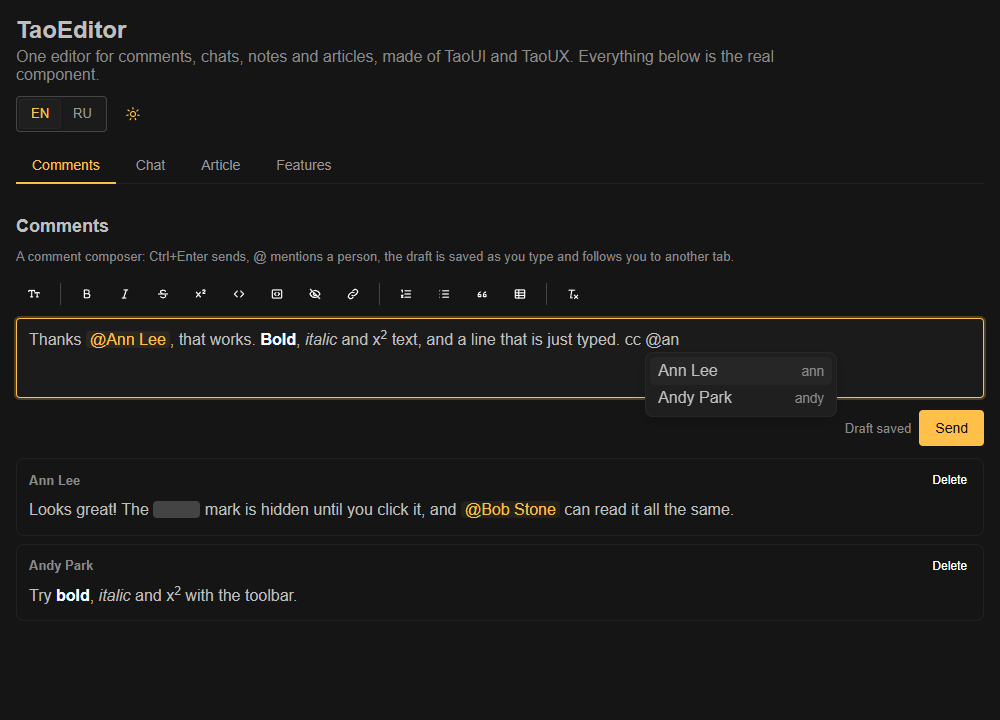
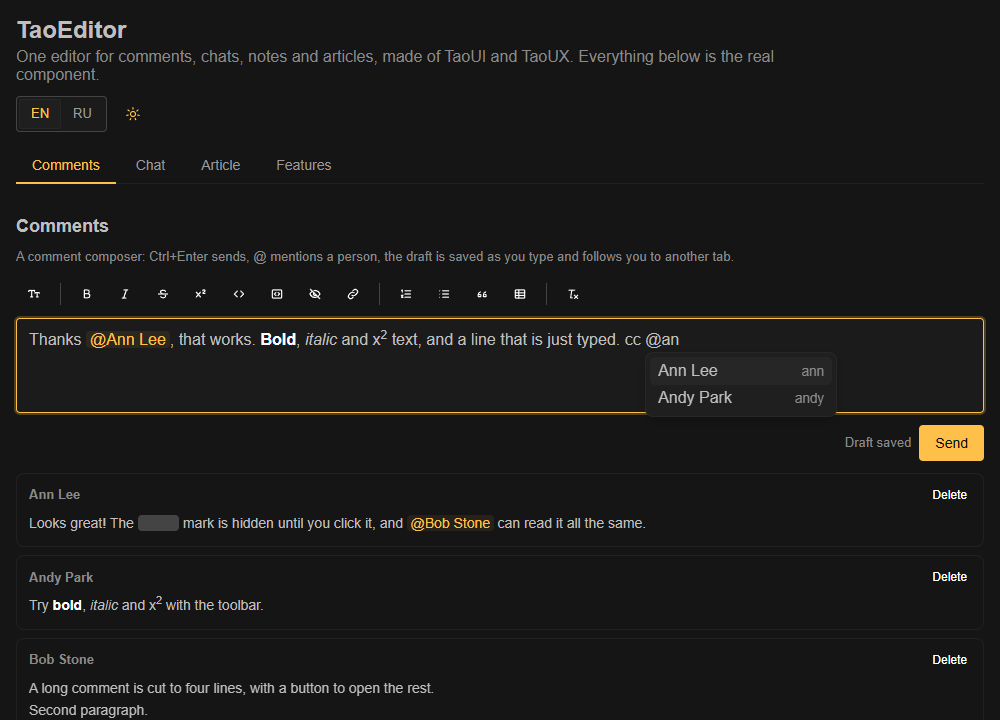
Heights in lines: minRows and maxRows for the editor, maxRows with Show more for the viewer

diff --git a/src/vue/TaoEditorView.ts b/src/vue/TaoEditorView.ts
@@ -9,7 +9,7 @@
  * грузится, поэтому страница, которая только показывает текст, ничего не платит за ProseMirror. Импорта TaoUI нет:
  * под TaoUI добавьте классу `tao-prose` (`<TaoEditorView class="tao-prose">`).
  */
-import { computed, defineComponent, getCurrentInstance, h, shallowRef, type PropType, type VNode } from 'vue';
+import { computed, defineComponent, getCurrentInstance, h, onMounted, onUpdated, ref, shallowRef, type PropType, type VNode } from 'vue';
 import { VOID_TAGS, resolveProfile, toRenderTree, type Doc, type Profile, type ProfileName, type RenderNode } from '../core';
 
 export const TaoEditorView = defineComponent({
@@ -26,6 +26,17 @@ export const TaoEditorView = defineComponent({
          * остальных нет. Документ один и тот же.
          */
         spaced: { type: Boolean, default: undefined },
+        /**
+         * A long text is shown as this many lines with a button to open the rest (a comment in a feed). Counted with the line height of
+         * the text (the `lh` unit: Chrome 109, Firefox 120, Safari 16.4). The button is there only when the text is longer; on a server the
+         * text is shown in full, nothing is cut without a script to open it.
+         * Длинный текст показывается столькими строками с кнопкой, которая открывает остальное (комментарий в ленте). Считается по высоте
+         * строки текста. Кнопка есть только если текст длиннее; на сервере текст виден целиком: без скрипта, который его откроет, ничего не обрезается.
+         */
+        maxRows: { type: Number, default: undefined },
+        /** Texts of the buttons (the viewer has no TaoUI: plain buttons). */
+        moreLabel: { type: String, default: 'Show more' },
+        lessLabel: { type: String, default: 'Show less' },
     },
     emits: {
         /** A mention was clicked (or Enter / Space on it): its id. Mentions are plain text unless something listens. */
@@ -79,6 +90,41 @@ export const TaoEditorView = defineComponent({
         };
 
         const compact = (): boolean => !(props.spaced ?? resolveProfile(props.profile).spaced ?? false);
-        return () => h('div', { class: compact() ? 'tao-content tao-compact' : 'tao-content' }, tree.value.map(node));
+
+        // `maxRows`: the text is cut to that many lines; after drawing we see whether it is longer, and only then there is a button
+        const body = ref<HTMLElement | null>(null);
+        const open = ref(false);
+        const ready = ref(false); // after mounting: on a server (and before hydration) nothing is cut, there is no script to open it
+        const longer = ref(false);
+        const measure = (): void => {
+            const el = body.value;
+            if (!el || props.maxRows === undefined) return;
+            // opened: the button stays (it closes again); cut: it is there if something is hidden
+            if (!open.value) longer.value = el.scrollHeight > el.clientHeight + 1;
+        };
+        onMounted(() => {
+            ready.value = true;
+            measure();
+        });
+        onUpdated(measure);
+
+        return () => {
+            const rows = props.maxRows !== undefined && Number.isFinite(props.maxRows) && props.maxRows >= 1 ? Math.floor(props.maxRows) : undefined;
+            const content = (extra?: Record<string, unknown>): VNode =>
+                h('div', { class: compact() ? 'tao-content tao-compact' : 'tao-content', ...extra }, tree.value.map(node));
+            if (rows === undefined) return content();
+            // the class and the attributes of the host go to the outer box, the text and the button are inside it
+            const cut = ready.value && !open.value;
+            return h('div', { class: 'tao-content-clamp' }, [
+                content({
+                    ref: body,
+                    class: [compact() ? 'tao-content tao-compact' : 'tao-content', { 'tao-content--clamped': cut, 'tao-content--faded': cut && longer.value }],
+                    style: cut ? { '--te-rows': String(rows) } : undefined,
+                }),
+                longer.value
+                    ? h('button', { type: 'button', class: 'tao-content-more', 'aria-expanded': String(open.value), onClick: () => (open.value = !open.value) }, open.value ? props.lessLabel : props.moreLabel)
+                    : null,
+            ]);
+        };
     },
 });

diff --git a/tests/vue/viewerrows.test.ts b/tests/vue/viewerrows.test.ts
@@ -1,0 +1,85 @@
+// @vitest-environment jsdom
+import { createApp, h, nextTick, type App } from 'vue';
+import { renderToString } from 'vue/server-renderer';
+import { afterEach, describe, expect, it } from 'vitest';
+import type { Doc } from '../../src/core';
+import { TaoEditorView } from '../../src/vue';
+
+const apps: App[] = [];
+afterEach(() => {
+    while (apps.length) apps.pop()!.unmount();
+    document.body.replaceChildren();
+});
+
+const DOC: Doc = { v: 1, content: [{ type: 'paragraph', content: [{ type: 'text', text: 'a long comment' }] }] };
+
+function mount(props: Record<string, unknown>): HTMLElement {
+    const host = document.createElement('div');
+    document.body.append(host);
+    const app = createApp({ render: () => h(TaoEditorView, { doc: DOC, ...props }) });
+    app.mount(host);
+    apps.push(app);
+    return host;
+}
+
+/** jsdom has no layout: say that the text is taller than the box. */
+function layout(scrollHeight: number, clientHeight: number): void {
+    Object.defineProperty(HTMLElement.prototype, 'scrollHeight', { configurable: true, get: () => scrollHeight });
+    Object.defineProperty(HTMLElement.prototype, 'clientHeight', { configurable: true, get: () => clientHeight });
+}
+afterEach(() => {
+    delete (HTMLElement.prototype as unknown as Record<string, unknown>).scrollHeight;
+    delete (HTMLElement.prototype as unknown as Record<string, unknown>).clientHeight;
+});
+
+describe('the viewer with maxRows', () => {
+    it('without it nothing changes: the root is the text itself', () => {
+        const host = mount({});
+        expect(host.firstElementChild!.classList.contains('tao-content')).toBe(true);
+        expect(host.querySelector('.tao-content-clamp')).toBeNull();
+    });
+
+    it('a short text is shown as it is: cut to the rows, no button', async () => {
+        layout(40, 40);
+        const host = mount({ maxRows: 3 });
+        await nextTick();
+        expect(host.querySelector('.tao-content-clamp > .tao-content--clamped')!.getAttribute('style')).toContain('--te-rows: 3');
+        expect(host.querySelector('.tao-content-more')).toBeNull();
+        expect(host.querySelector('.tao-content--faded')).toBeNull();
+    });
+
+    it('a long text is faded and has a button that opens it and closes it again', async () => {
+        layout(200, 60);
+        const host = mount({ maxRows: 3 });
+        await nextTick();
+        await nextTick();
+        const button = host.querySelector<HTMLButtonElement>('.tao-content-more')!;
+        expect(button.textContent).toBe('Show more');
+        expect(button.getAttribute('aria-expanded')).toBe('false');
+        expect(host.querySelector('.tao-content--faded')).not.toBeNull();
+        button.click();
+        await nextTick();
+        expect(host.querySelector('.tao-content--clamped')).toBeNull();
+        expect(host.querySelector('.tao-content-more')!.textContent).toBe('Show less');
+        host.querySelector<HTMLButtonElement>('.tao-content-more')!.click();
+        await nextTick();
+        expect(host.querySelector('.tao-content--clamped')).not.toBeNull();
+    });
+
+    it('the labels are the app\'s own, and nonsense for maxRows shows the text in full', async () => {
+        layout(200, 60);
+        const host = mount({ maxRows: 3, moreLabel: 'Ещё', lessLabel: 'Свернуть' });
+        await nextTick();
+        await nextTick();
+        expect(host.querySelector('.tao-content-more')!.textContent).toBe('Ещё');
+        const full = mount({ maxRows: 0 });
+        expect(full.querySelector('.tao-content-clamp')).toBeNull();
+    });
+
+    it('on a server the text is whole: no cut without a script to open it, no button', async () => {
+        const html = await renderToString(h(TaoEditorView, { doc: DOC, maxRows: 3 }));
+        expect(html).toContain('a long comment');
+        expect(html).not.toContain('tao-content-more');
+        expect(html).not.toContain('tao-content--clamped');
+    });
+});

diff --git a/src/vue/taoui/TaoEditor.ts b/src/vue/taoui/TaoEditor.ts
@@ -209,6 +209,19 @@ const TABLE_MENU: readonly (readonly [TableCommand, keyof TaoEditorLabels, strin
     ['deleteTable', 'tableDelete', 'te-trash'],
 ];
 
+/** Rows of text as a height: that many lines, plus the padding (1em) and the border (2px) of the field. Nonsense is ignored. */
+const rowsHeight = (rows: number): string | undefined => (Number.isFinite(rows) && rows >= 1 ? `calc(${Math.floor(rows)} * 1lh + 1em + 2px)` : undefined);
+
+function sizeStyle(minRows: number | undefined, maxRows: number | undefined, maxHeight: number | string | undefined): Record<string, string> | undefined {
+    const style: Record<string, string> = {};
+    const min = minRows === undefined ? undefined : rowsHeight(minRows);
+    // a custom property holds any text: a number is px, a string is a CSS length (the app's own, not checked)
+    const max = maxHeight !== undefined ? (typeof maxHeight === 'number' ? `${maxHeight}px` : maxHeight) : maxRows === undefined ? undefined : rowsHeight(maxRows);
+    if (min) style['--te-min-height'] = min;
+    if (max) style['--te-max-height'] = max;
+    return Object.keys(style).length > 0 ? style : undefined;
+}
+
 const mac = typeof navigator !== 'undefined' && /Mac|iPhone|iPad/.test(navigator.platform);
 const key = (letter: string, shift = false, alt = false): string =>
     mac ? `${shift ? '⇧' : ''}${alt ? '⌥' : ''}⌘${letter}` : `${'Ctrl+'}${alt ? 'Alt+' : ''}${shift ? 'Shift+' : ''}${letter}`;
@@ -257,6 +270,14 @@ export const TaoEditor = defineComponent({
          * растёт вместе с текстом, а прокручивается страница. То же, что `--te-max-height` на компоненте.
          */
         maxHeight: { type: [Number, String] as PropType<number | string>, default: undefined },
+        /**
+         * The height in lines of text instead of pixels: a chat starts at 1 line and grows to 8, a comment at 3 to 12. Counted with the line
+         * height of the text (the `lh` unit: Chrome 109, Firefox 120, Safari 16.4); `maxHeight` wins over `maxRows`.
+         * Высота в строках текста, а не в пикселях: чат начинается с 1 строки и растёт до 8, комментарий с 3 до 12. Считается по высоте
+         * строки текста (единица `lh`: Chrome 109, Firefox 120, Safari 16.4); `maxHeight` главнее `maxRows`.
+         */
+        minRows: { type: Number, default: undefined },
+        maxRows: { type: Number, default: undefined },
         /** The toolbar floats over the selection instead of standing above the field. / Панель висит над выделением. */
         floating: { type: Boolean, default: false },
         /**
@@ -1175,7 +1196,7 @@ export const TaoEditor = defineComponent({
                     ref: root,
                     class: ['tao-editor-root', { 'tao-editor-root--disabled': props.disabled, 'tao-editor-root--sticky': props.sticky && !props.floating }],
                     // a number is px; the string is a CSS length (not checked: it only goes into a custom property)
-                    style: props.maxHeight === undefined ? undefined : { '--te-max-height': typeof props.maxHeight === 'number' ? `${props.maxHeight}px` : props.maxHeight },
+                    style: sizeStyle(props.minRows, props.maxRows, props.maxHeight),
                     onFocusin: () => (focused.value = true),
                     onFocusout: (event: FocusEvent) => {
                         if (!root.value?.contains(event.relatedTarget as Node | null)) {

diff --git a/demo/src/sections/CommentsDemo.vue b/demo/src/sections/CommentsDemo.vue
@@ -42,7 +42,8 @@ function mentioned(id: string): void {
             v-model="draft.doc.value"
             profile="comment"
             submit="mod-enter"
-            :max-height="260"
+            :min-rows="3"
+            :max-rows="10"
             :mentions="searchPeople"
             :labels="labels"
             :placeholder="t('comments.placeholder')"
@@ -64,7 +65,7 @@ function mentioned(id: string): void {
                     <strong>{{ comment.author }}</strong>
                     <TaoButton variant="text" tone="neutral" size="small" @click="remove(comment.id)">{{ t('comments.delete') }}</TaoButton>
                 </div>
-                <TaoEditorView :doc="comment.doc" profile="comment" class="tao-prose" @mention="mentioned" />
+                <TaoEditorView :doc="comment.doc" profile="comment" class="tao-prose" :max-rows="4" :more-label="t('common.showMore')" :less-label="t('common.showLess')" @mention="mentioned" />
             </article>
         </div>
     </section>

diff --git a/tests/vue/layout.test.ts b/tests/vue/layout.test.ts
@@ -39,3 +39,17 @@ describe('a long text: maxHeight and sticky', () => {
         expect(plain.classList.contains('tao-editor-root--sticky')).toBe(false);
     });
 });
+
+describe('the height in rows', () => {
+    it('minRows and maxRows become heights counted in lines; maxHeight wins; nonsense is ignored', async () => {
+        const rows = mount({ minRows: 3, maxRows: 8 });
+        const both = mount({ maxRows: 8, maxHeight: 100 });
+        const bad = mount({ minRows: 0, maxRows: Number.NaN });
+        await nextTick();
+        expect(rows.style.getPropertyValue('--te-min-height')).toBe('calc(3 * 1lh + 1em + 2px)');
+        expect(rows.style.getPropertyValue('--te-max-height')).toBe('calc(8 * 1lh + 1em + 2px)');
+        expect(both.style.getPropertyValue('--te-max-height')).toBe('100px');
+        expect(bad.style.getPropertyValue('--te-min-height')).toBe('');
+        expect(bad.style.getPropertyValue('--te-max-height')).toBe('');
+    });
+});

diff --git a/demo/src/samples.ts b/demo/src/samples.ts
@@ -15,6 +15,7 @@ const doc = (...content: DocNode[]): Doc => ({ v: 1, content });
 export const SEED_COMMENTS: { id: number; author: string; doc: Doc }[] = [
     { id: 1, author: 'Ann Lee', doc: doc(p(t('Looks great! The '), t('spoiler', { type: 'spoiler' }), t(' mark is hidden until you click it, and '), mention('u3', 'Bob Stone'), t(' can read it all the same.'))) },
     { id: 2, author: 'Andy Park', doc: doc(p(t('Try '), t('bold', bold), t(', '), t('italic', { type: 'italic' }), t(' and x'), t('2', { type: 'superscript' }), t(' with the toolbar.'))) },
+    { id: 3, author: 'Bob Stone', doc: doc(p(t('A long comment is cut to four lines, with a button to open the rest.')), p(t('Second paragraph.')), p(t('Third paragraph.')), p(t('Fourth paragraph.')), p(t('Fifth: this one is behind the button.')), p(t('Sixth: and so is this.'))) },
 ];
 
 /** A page of an article: headings, a list, a quote, code, an indent, alignment, sizes, colours. */

diff --git a/src/styles/content.css b/src/styles/content.css
@@ -229,3 +229,26 @@
     font-size: 0.75em;
     line-height: 0;
 }
+
+/* The viewer with `maxRows`: cut to --te-rows lines, faded at the bottom when there is more, and a plain button to open the rest. */
+.tao-content--clamped {
+    max-height: calc(var(--te-rows) * 1lh);
+    overflow: hidden;
+}
+.tao-content--faded {
+    -webkit-mask-image: linear-gradient(to bottom, #000 calc(100% - 1.5lh), transparent);
+    mask-image: linear-gradient(to bottom, #000 calc(100% - 1.5lh), transparent);
+}
+.tao-content-more {
+    margin-top: 0.25em;
+    padding: 0;
+    font: inherit;
+    font-size: 0.9em;
+    color: var(--te-link, light-dark(#2f6df6, #7aa5ff));
+    background: none;
+    border: 0;
+    cursor: pointer;
+}
+.tao-content-more:hover {
+    text-decoration: underline;
+}

diff --git a/demo/src/sections/ChatDemo.vue b/demo/src/sections/ChatDemo.vue
@@ -72,6 +72,8 @@ function mentioned(id: string): void {
             v-model="draft"
             profile="chat"
             submit="enter"
+            :min-rows="1"
+            :max-rows="6"
             :mentions="searchPeople"
             :labels="labels"
             :placeholder="t('chat.placeholder')"

diff --git a/demo/src/locales/ru.ts b/demo/src/locales/ru.ts
@@ -10,6 +10,8 @@ export const ru: Dictionary = {
     common: {
         you: 'Вы',
         justNow: 'только что',
+        showMore: 'Показать полностью',
+        showLess: 'Свернуть',
         mention: 'Нажато упоминание, id {0}',
     },
     comments: {

diff --git a/demo/src/locales/en.ts b/demo/src/locales/en.ts
@@ -8,6 +8,8 @@ export const en = {
     common: {
         you: 'You',
         justNow: 'just now',
+        showMore: 'Show more',
+        showLess: 'Show less',
         mention: 'A mention was clicked, id {0}',
     },
     comments: {

diff --git a/CHANGELOG.md b/CHANGELOG.md
@@ -6,7 +6,7 @@
 - **The ready profiles are leaner**: `comment` has the bar of Reddit (bold, italic, strikethrough, superscript, size, link, lists, spoiler, quote, code, code block, table) and no text and background colour, underline, subscript, alignment or indents (lists are nested with Tab); `chat` also has no superscript; `article` keeps everything. The code block button stands next to the inline code one. A new feature `history` (with `indent` and `align`) is the Undo and Redo buttons of the toolbar: only `article` has them by default (Ctrl+Z and Ctrl+Y always work). A project can still take marks away or define its own profile (`defineProfile` with the marks it wants).
 - **One row toolbar.** The toolbar uses TaoUI 5.31 `overflow`: it stays one row, and the groups that do not fit go under a "More" button (the history group stays). The popups of a button in that panel open below the panel. New label `more`. `@1337exp/taoui` is now `^5.31.0` (peer and dev); `floating` toolbars are not changed.
 - **Code block button.** The code block (a block of plain monospaced text, apart from the inline `code` mark) gets a toolbar toggle: the selected lines become one block (text only: marks go, a mention becomes its `@name`) and back to a paragraph. Enter or Shift+Enter on an empty last line leaves the block, so one at the end of the document has a way out. `createEditor` gains `toggleCodeBlock`; new label `codeBlock`. A table cell does not take one.
-- **Long texts.** Two settings for the app that embeds the editor: `sticky` keeps the toolbar at the top of the screen while the page scrolls past a long text (`--te-sticky-top` for a page with its own fixed header; not for `floating`), and `maxHeight` (or `--te-max-height`) makes the field grow up to that height and then scroll inside. Which one to use is the app's decision: a sticky toolbar for an article, a maximum height for a comment or a chat. No own context menu: the browser's keeps the spell check.
+- **Long texts.** Two settings for the app that embeds the editor: `sticky` keeps the toolbar at the top of the screen while the page scrolls past a long text (`--te-sticky-top` for a page with its own fixed header; not for `floating`), and `maxHeight` (or `--te-max-height`) makes the field grow up to that height and then scroll inside. **Heights in lines**: `minRows` and `maxRows` on the editor (a chat from 1 line to 6, a comment from 3 to 10), counted with the line height of the text (the `lh` unit: Chrome 109, Firefox 120, Safari 16.4; `maxHeight` wins over `maxRows`); and `maxRows` on `TaoEditorView` cuts a long text to that many lines, fades the last one and adds a button to open the rest (`moreLabel`, `lessLabel`; on a server and before hydration the text is whole). `--te-max-height` is a CSS property that inherits, so one rule in the app's stylesheet sets it for a whole area. Which one to use is the app's decision: a sticky toolbar for an article, a maximum height for a comment or a chat. No own context menu: the browser's keeps the spell check.
 - **Tables.** New nodes `table`, `tableRow`, `tableCell` and `tableHeader` in the document (`comment` and `article` have them, `chat` does not; `withoutFeatures(profile, { nodes: ['table'] })` takes the table and its parts away together). A table is a plain rectangle: the normalizer fills a short row with empty cells, cuts it to 50 rows by 20 columns, and keeps tables out of cells, quotes and lists; merged cells and column widths are not in the model. A profile without tables shows the cells as paragraphs.
 - **In the editor** (on `prosemirror-tables` 1.8.5, exact): a table button with a size picker (8 by 6, arrows walk it), and, when the caret is in a table, a menu for rows, columns, the header row and deleting the table. A small button on the cell with the caret opens the same menu next to it (a long table needs no trip to the toolbar). Tab and Shift+Tab walk the cells and fall through at the ends; the caret can stand before a table or a code block at the start of the document and after one at the end (a gap cursor, on `prosemirror-gapcursor` 1.4.1, exact): arrows get there, Enter makes a line, typing makes a paragraph.
 - **Paste without formatting**: Ctrl+Shift+V pastes only the text of the clipboard (the engine does this itself; a test now guards it). No toolbar button, on purpose: Gmail and Docs have none, and a phone has no such keys.

diff --git a/README.ru.md b/README.ru.md
@@ -64,7 +64,7 @@ const profile = withoutFeatures('comment', { marks: ['bold'], features: ['align'
 - **Ничего не превращается за спиной.** Набранное и вставленное остаётся тем, чем было: текст, похожий на Markdown, остаётся текстом. Форматирование есть только если его применили явно или оно пришло настоящим форматированием во вставленном HTML (куски из Google Docs, Word и Gmail читаются, их чёрные чернила и белая бумага нет).
 - **Безопасная вставка и безопасный вывод**: Ctrl+Shift+V вставляет только текст (как в Gmail и Docs; кнопки нет намеренно); вставленный HTML читается только правилами схемы, поэтому скрипты, обработчики, картинки и небезопасные ссылки не проходят; вывод никогда не принимает строку за разметку, а цвет не может внести в style ничего, кроме цвета.
 - **Упоминания** (`@имя`): одна единица в тексте с `id` и подписью на момент вставки. Редактор лишь замечает `@запрос`; список людей принадлежит приложению (свойство `mentions`: функция, которая возвращает людей сразу или промисом). Работает с клавишами и мышью, озвучивается скринридеру. **`id` это заявление, приложение обязано его проверять.**
-- **Длинные тексты**: `sticky` держит панель на экране, пока страница прокручивается (статья); `maxHeight` делает так, что поле растёт до высоты и дальше прокручивается внутри (комментарий, чат). Меню правого клика намеренно остаётся браузерным: в нём орфография.
+- **Длинные тексты**: `minRows` и `maxRows` задают высоту поля в строках (чат от 1 до 6), `TaoEditorView` с `maxRows` обрезает длинный комментарий и добавляет «Показать полностью»; `sticky` держит панель на экране, пока страница прокручивается (статья); `maxHeight` делает так, что поле растёт до высоты и дальше прокручивается внутри (комментарий, чат). Меню правого клика намеренно остаётся браузерным: в нём орфография.
 - **Чат и комментарии**: Enter или Ctrl+Enter отправляет, Shift+Enter переносит строку, композиция IME никогда не отправляет; кнопка эмодзи (обычный Юникод-текст); между абзацами по умолчанию нет зазора (Enter это строка), у статьи зазор есть (`spaced`).
 - **Показ** (`TaoEditorView`), который не грузит движок редактирования: спойлеры открываются кликом, упоминания становятся кнопками, если приложение слушает. Тот же рендер работает на сервере (`toHtml`).
 - **Сделан под TaoUI, работает и без него**: TaoUI импортируют только файлы в `src/vue/taoui/` (слои охраняет тест); `taoui.css` единственный файл, называющий токены TaoUI, и тест проверяет, что каждый из них есть в установленном TaoUI.
